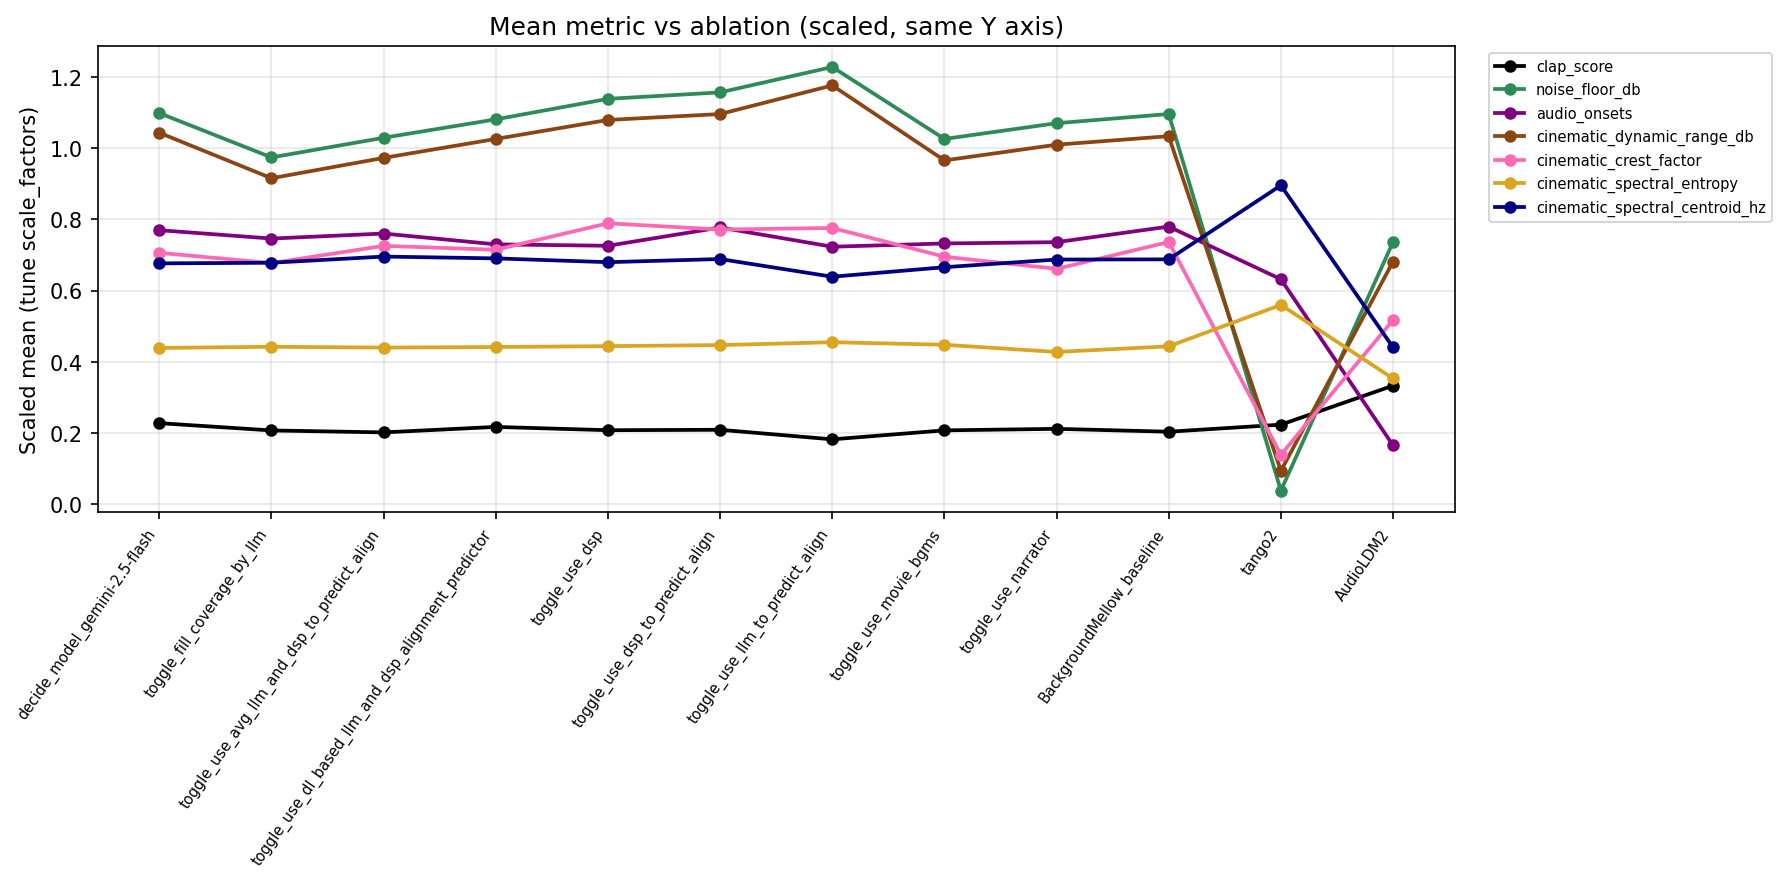
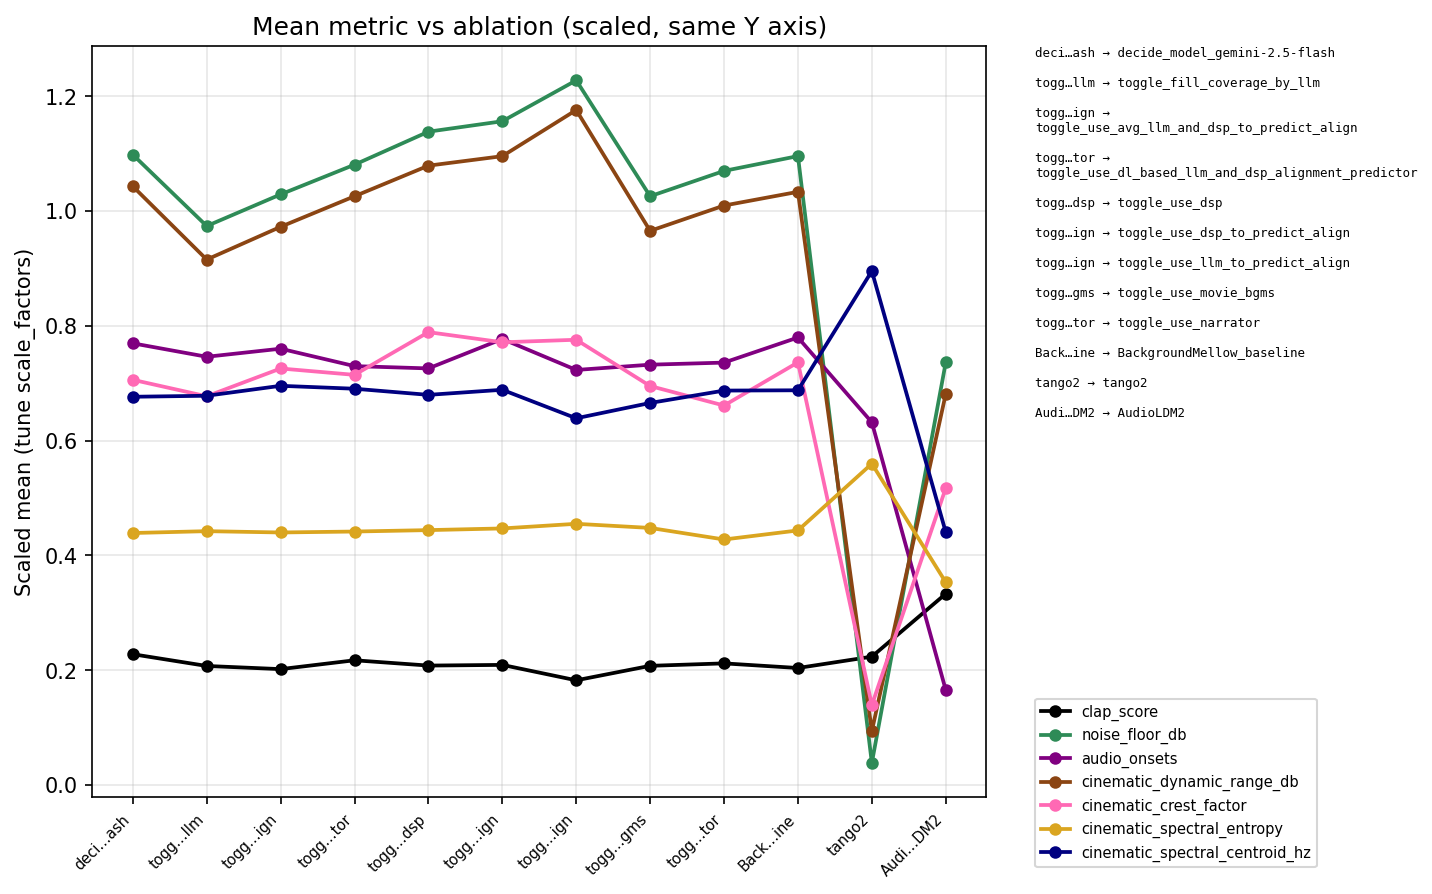
results

diff --git a/backend/Evaluation/visualize_results.py b/backend/Evaluation/visualize_results.py
@@ -14,6 +14,7 @@ from __future__ import annotations
 
 import argparse
 import os
+import textwrap
 from dataclasses import dataclass
 from pathlib import Path
 from typing import Any, Dict, Iterable, List, Literal, Mapping, Optional, Sequence, Tuple
@@ -674,6 +675,14 @@ def ablation_mean_matrix_multi_metric(
     return pd.DataFrame(rows, index=index)
 
 
+def _abbreviate_label_middle(s: str, head: int = 4, tail: int = 3) -> str:
+    """Short tick label: ``baseline`` → ``base…ine`` when longer than head+tail."""
+    t = str(s)
+    if len(t) <= head + tail:
+        return t
+    return f"{t[:head]}…{t[-tail:]}"
+
+
 def plot_ablation_metrics_overlay(
     df: pd.DataFrame | str,
     metrics: Sequence[str],
@@ -693,6 +702,11 @@ def plot_ablation_metrics_overlay(
     ylabel: str = "Scaled mean (tune scale_factors)",
     ylim: Optional[Tuple[float, float]] = None,
     legend_outside: bool = True,
+    short_label_head: int = 4,
+    short_label_tail: int = 3,
+    show_ablation_key: bool = True,
+    ablation_key_chars_per_line: int = 52,
+    ablation_key_fontsize: float = 6.0,
 ) -> Tuple[plt.Figure, pd.DataFrame]:
     """
     Line plot: x = every ablation in ``final_results`` (plus optional Tango2/AudioLDM CSV rows),
@@ -700,6 +714,11 @@ def plot_ablation_metrics_overlay(
 
     ``df`` may be a path to ``final_results.csv`` or a DataFrame. Use ``scale_factors`` to
     align different units on one axis (same defaults as Tango-vs-AudioLDM overlay).
+
+    X-axis uses middle-abbreviated names (e.g. ``baseline`` → ``base…ine``). When
+    ``show_ablation_key`` is True, a panel beside the plot lists the full ablation strings;
+    with ``legend_outside`` True, the metric legend is placed below that list (same column)
+    so the figure stays narrow.
     """
     if isinstance(df, str):
         df = load_results_csv(df)
@@ -748,18 +767,58 @@ def plot_ablation_metrics_overlay(
         fig, ax = plt.subplots(figsize=(8, 4))
         ax.set_title("No ablation rows")
         return fig, mat
-    
-    print(mat.columns)
-    print(metrics)
 
     n = len(mat)
     x = np.arange(n, dtype=float)
-    print("x")
-    print(x)
-    labels = mat.index.astype(str).tolist()
-    w = max(12.0, 0.35 * n)
-    h = 6.0
-    fig, ax = plt.subplots(figsize=figsize or (w, h))
+    labels_full = mat.index.astype(str).tolist()
+    tick_labels = [
+        _abbreviate_label_middle(lb, head=short_label_head, tail=short_label_tail)
+        for lb in labels_full
+    ]
+    w_main = max(8.0, 0.22 * n)
+    h = 6.5
+    key_w = 2.85 if show_ablation_key else 0.0
+    default_figsize = (w_main + key_w, h)
+    fig = plt.figure(figsize=figsize or default_figsize)
+    ax_leg = None
+    if show_ablation_key:
+        if legend_outside:
+            # Right column: ablation key on top, metric legend below (saves horizontal space).
+            gs = fig.add_gridspec(
+                2,
+                2,
+                width_ratios=[w_main, key_w],
+                height_ratios=[7.5, 1.25],
+                wspace=0.08,
+                hspace=0.18,
+            )
+            ax = fig.add_subplot(gs[:, 0])
+            ax_key = fig.add_subplot(gs[0, 1])
+            ax_leg = fig.add_subplot(gs[1, 1])
+            ax_key.axis("off")
+            ax_leg.axis("off")
+        else:
+            gs = fig.add_gridspec(1, 2, width_ratios=[w_main, key_w], wspace=0.08)
+            ax = fig.add_subplot(gs[0, 0])
+            ax_key = fig.add_subplot(gs[0, 1])
+        ax_key.axis("off")
+        key_body = "\n\n".join(
+            textwrap.fill(f"{tick_labels[i]} → {labels_full[i]}", width=ablation_key_chars_per_line)
+            for i in range(n)
+        )
+        ax_key.text(
+            0.0,
+            1.0,
+            key_body,
+            transform=ax_key.transAxes,
+            va="top",
+            ha="left",
+            fontsize=ablation_key_fontsize,
+            family="monospace",
+        )
+    else:
+        ax = fig.add_subplot(1, 1, 1)
+
     fallback = plt.cm.tab10(np.linspace(0, 0.9, max(10, len(metrics))))
 
     for i, m in enumerate(metrics):
@@ -769,24 +828,28 @@ def plot_ablation_metrics_overlay(
         s = float(scales.get(m, 1.0))
         y = raw * s
         c = palette.get(m, fallback[i % len(fallback)])
-        # print(" for metric ", m, " y is ", y," for ablation ", labels)
-        
-        print("--------------------------------")
-        print(" for metric ", m, " and scale factor ", s)
-        for j in range(len(y)):
-            print(" for ablation ", labels[j], " raw mean value is ", y[j]/s)
-        print("--------------------------------")
         ax.plot(x, y, "o-", color=c, linewidth=1.8, markersize=5, label=m)
 
     ax.set_xticks(x)
-    ax.set_xticklabels(labels, rotation=55, ha="right", fontsize=7)
+    ax.set_xticklabels(tick_labels, rotation=45, ha="right", fontsize=7)
     ax.set_ylabel(ylabel)
     ax.set_title(title)
     if ylim is not None:
         ax.set_ylim(ylim)
     ax.grid(True, alpha=0.3)
     if legend_outside:
-        ax.legend(bbox_to_anchor=(1.02, 1), loc="upper left", fontsize=7)
+        if ax_leg is not None:
+            handles, labels_for_leg = ax.get_legend_handles_labels()
+            ax_leg.legend(
+                handles,
+                labels_for_leg,
+                loc="upper left",
+                fontsize=7,
+                frameon=True,
+                borderaxespad=0.0,
+            )
+        else:
+            ax.legend(bbox_to_anchor=(1.02, 1), loc="upper left", fontsize=7)
     else:
         ax.legend(fontsize=7)
     fig.tight_layout()
